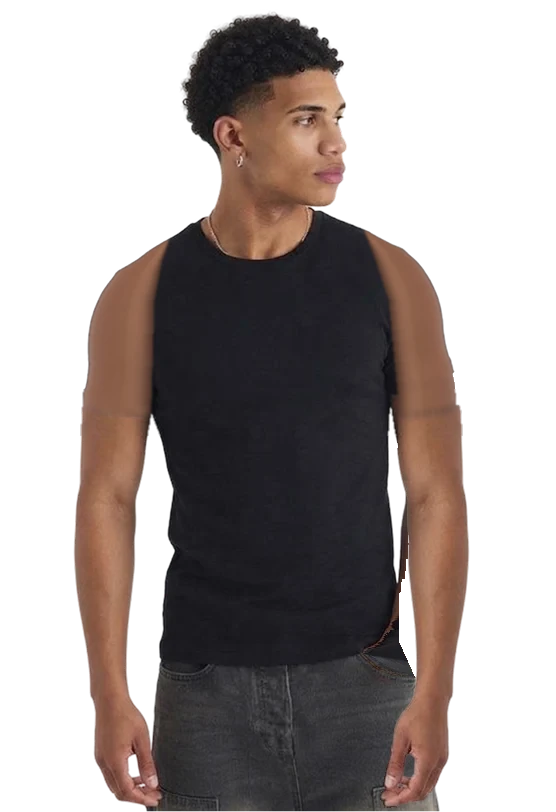
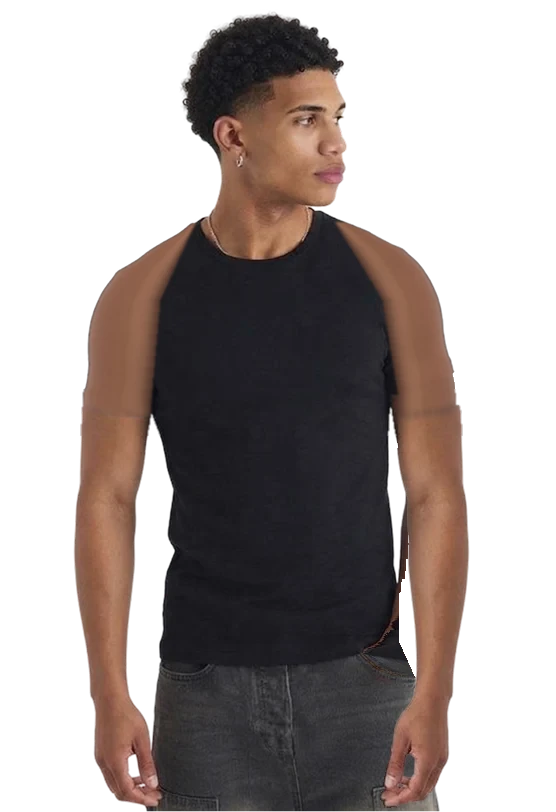
Keep the two sleeveless pieces in their true shape
- Tanks are no longer stretched or cut by the model's arms; his arms
  sit behind their edges
- Vest straps are thinner near the neck so they stay under the collars
- A piece becomes whole again sooner as it leaves the model

Changed region(s): [[0.6115, 0.2771, 0.7338, 0.4618], [0.2446, 0.2771, 0.3669, 0.4618]]

diff --git a/index.html b/index.html
@@ -59,29 +59,29 @@
       </div>
 
       <div class="jc__model">
-        <img src="jacket-carousel/assets/model-vest.webp" alt="Model">
+        <img src="jacket-carousel/assets/model-vest.webp?v=2" alt="Model">
       </div>
 
       <div class="jc__carousel">
         <div class="jc__item">
-          <img src="jacket-carousel/assets/tee1.webp?v=3" alt="Piece 01">
-          <img class="jc__back" src="jacket-carousel/assets/tee1-back.webp?v=3" alt="" aria-hidden="true">
+          <img src="jacket-carousel/assets/tee1.webp?v=4" alt="Piece 01">
+          <img class="jc__back" src="jacket-carousel/assets/tee1-back.webp?v=4" alt="" aria-hidden="true">
         </div>
         <div class="jc__item">
-          <img src="jacket-carousel/assets/tee2.webp?v=3" alt="Piece 02">
-          <img class="jc__back" src="jacket-carousel/assets/tee2-back.webp?v=3" alt="" aria-hidden="true">
+          <img src="jacket-carousel/assets/tee2.webp?v=4" alt="Piece 02">
+          <img class="jc__back" src="jacket-carousel/assets/tee2-back.webp?v=4" alt="" aria-hidden="true">
         </div>
         <div class="jc__item">
-          <img src="jacket-carousel/assets/tee3.webp?v=3" alt="Piece 03">
-          <img class="jc__back" src="jacket-carousel/assets/tee3-back.webp?v=3" alt="" aria-hidden="true">
+          <img src="jacket-carousel/assets/tee3.webp?v=4" alt="Piece 03">
+          <img class="jc__back" src="jacket-carousel/assets/tee3-back.webp?v=4" alt="" aria-hidden="true">
         </div>
         <div class="jc__item">
-          <img src="jacket-carousel/assets/tee4.webp?v=3" alt="Piece 04">
-          <img class="jc__back" src="jacket-carousel/assets/tee4-back.webp?v=3" alt="" aria-hidden="true">
+          <img src="jacket-carousel/assets/tee4.webp?v=4" alt="Piece 04">
+          <img class="jc__back" src="jacket-carousel/assets/tee4-back.webp?v=4" alt="" aria-hidden="true">
         </div>
         <div class="jc__item">
-          <img src="jacket-carousel/assets/tee5.webp?v=3" alt="Piece 05">
-          <img class="jc__back" src="jacket-carousel/assets/tee5-back.webp?v=3" alt="" aria-hidden="true">
+          <img src="jacket-carousel/assets/tee5.webp?v=4" alt="Piece 05">
+          <img class="jc__back" src="jacket-carousel/assets/tee5-back.webp?v=4" alt="" aria-hidden="true">
         </div>
       </div>
 

diff --git a/jacket-carousel/section.html b/jacket-carousel/section.html
@@ -12,29 +12,29 @@
     </div>
 
     <div class="jc__model">
-      <img src="jacket-carousel/assets/model-vest.webp" alt="Model">
+      <img src="jacket-carousel/assets/model-vest.webp?v=2" alt="Model">
     </div>
 
     <div class="jc__carousel">
       <div class="jc__item">
-        <img src="jacket-carousel/assets/tee1.webp?v=3" alt="Piece 01">
-        <img class="jc__back" src="jacket-carousel/assets/tee1-back.webp?v=3" alt="" aria-hidden="true">
+        <img src="jacket-carousel/assets/tee1.webp?v=4" alt="Piece 01">
+        <img class="jc__back" src="jacket-carousel/assets/tee1-back.webp?v=4" alt="" aria-hidden="true">
       </div>
       <div class="jc__item">
-        <img src="jacket-carousel/assets/tee2.webp?v=3" alt="Piece 02">
-        <img class="jc__back" src="jacket-carousel/assets/tee2-back.webp?v=3" alt="" aria-hidden="true">
+        <img src="jacket-carousel/assets/tee2.webp?v=4" alt="Piece 02">
+        <img class="jc__back" src="jacket-carousel/assets/tee2-back.webp?v=4" alt="" aria-hidden="true">
       </div>
       <div class="jc__item">
-        <img src="jacket-carousel/assets/tee3.webp?v=3" alt="Piece 03">
-        <img class="jc__back" src="jacket-carousel/assets/tee3-back.webp?v=3" alt="" aria-hidden="true">
+        <img src="jacket-carousel/assets/tee3.webp?v=4" alt="Piece 03">
+        <img class="jc__back" src="jacket-carousel/assets/tee3-back.webp?v=4" alt="" aria-hidden="true">
       </div>
       <div class="jc__item">
-        <img src="jacket-carousel/assets/tee4.webp?v=3" alt="Piece 04">
-        <img class="jc__back" src="jacket-carousel/assets/tee4-back.webp?v=3" alt="" aria-hidden="true">
+        <img src="jacket-carousel/assets/tee4.webp?v=4" alt="Piece 04">
+        <img class="jc__back" src="jacket-carousel/assets/tee4-back.webp?v=4" alt="" aria-hidden="true">
       </div>
       <div class="jc__item">
-        <img src="jacket-carousel/assets/tee5.webp?v=3" alt="Piece 05">
-        <img class="jc__back" src="jacket-carousel/assets/tee5-back.webp?v=3" alt="" aria-hidden="true">
+        <img src="jacket-carousel/assets/tee5.webp?v=4" alt="Piece 05">
+        <img class="jc__back" src="jacket-carousel/assets/tee5-back.webp?v=4" alt="" aria-hidden="true">
       </div>
     </div>
 

diff --git a/jacket-carousel/jacket-carousel.js b/jacket-carousel/jacket-carousel.js
@@ -71,7 +71,7 @@
         item.style.opacity = opacity;
         item.style.zIndex = z;
         // Worn look on the model; the full garment (back collar + label) fades in as it moves off
-        if (backs[index]) backs[index].style.opacity = Math.min(Math.abs(diff) / 0.5, 1);
+        if (backs[index]) backs[index].style.opacity = Math.min(Math.abs(diff) / 0.12, 1);
       });
     }
 
